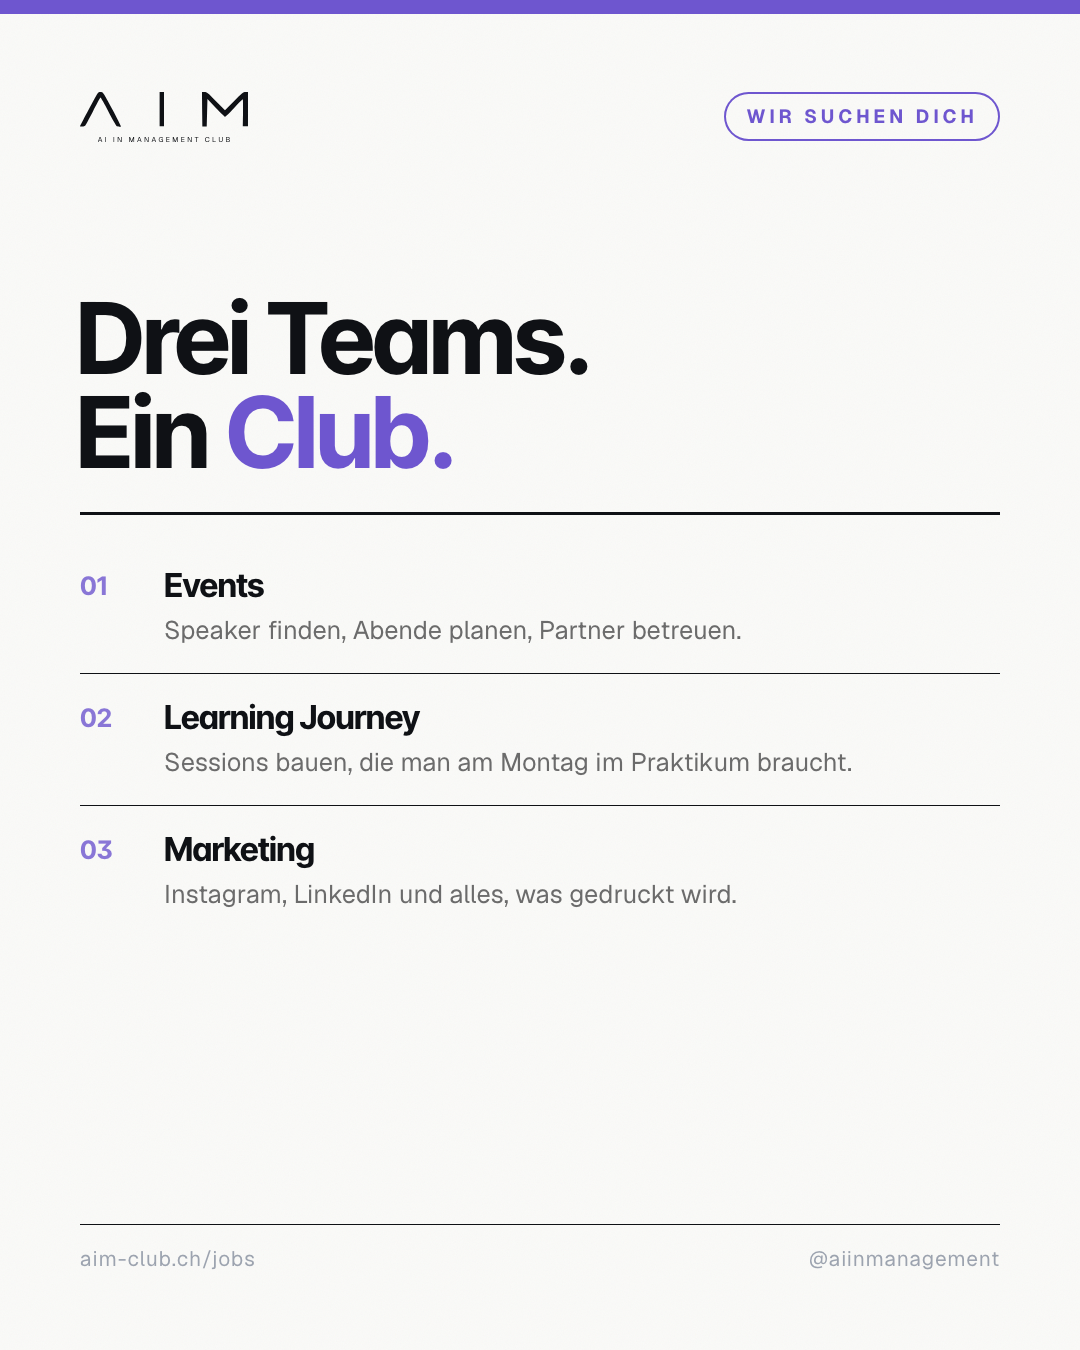
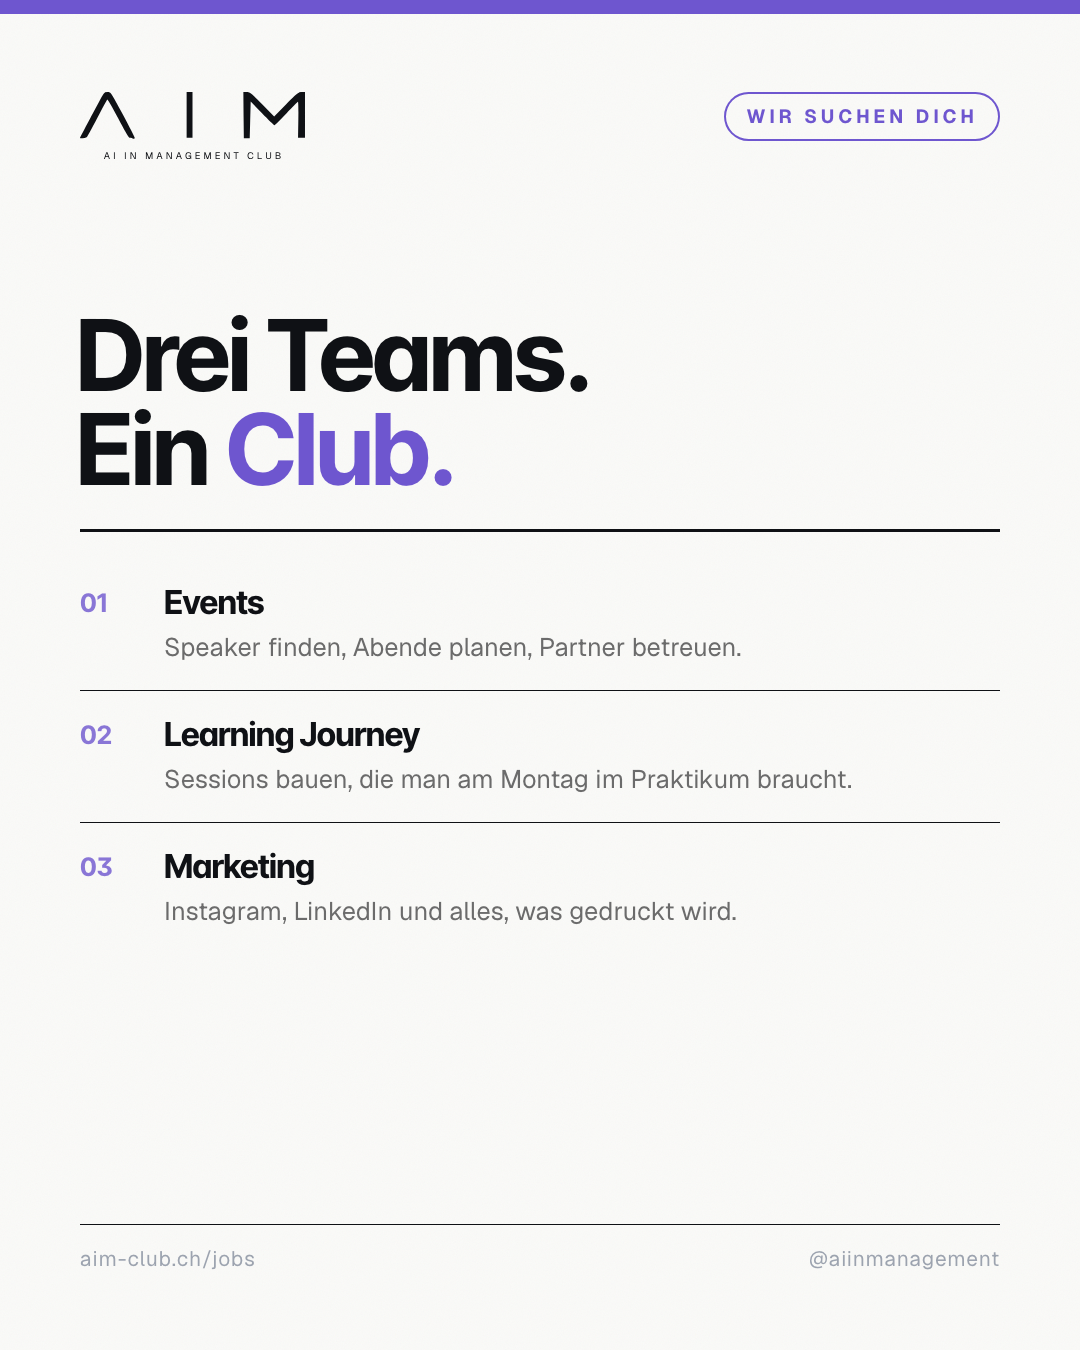
Apply dry-run findings: stricter brand check, scalable poster, clearer brief
- Leftover template sample text is now an error, also without data-sample
- Text-overlap and wordmark-legibility checks; print labels never below 7.5pt
- Poster scales natively to A4/A5 instead of shrinking the PDF
- Folder dates use local time; designs remember their template
- Brief and skills: language, event photos, slide counts, no invented content
- Climb mountain illustration from the club deck as a static motif

diff --git a/brand/components.css b/brand/components.css
@@ -28,6 +28,7 @@ em, i { font-style: normal; } /* no italics anywhere */
   height: var(--h);
   font-family: var(--font-body);
   font-size: var(--base, 28px);
+  --min-text: 0px;  /* print templates set 7.5pt: small labels never get smaller than that */
   line-height: var(--leading-body);
   background: var(--bg);
   color: var(--fg);
@@ -152,7 +153,7 @@ em, i { font-style: normal; } /* no italics anywhere */
 
 .eyebrow {
   font-family: var(--font-body);
-  font-size: 0.64em;
+  font-size: max(0.64em, var(--min-text));
   font-weight: 500;
   letter-spacing: var(--tracking-eyebrow);
   text-transform: uppercase;
@@ -180,8 +181,8 @@ em, i { font-style: normal; } /* no italics anywhere */
 .lede { font-size: 1.25em; line-height: 1.28; letter-spacing: -0.015em; color: var(--fg-soft); max-width: 30em; }
 .text { font-size: 1em; line-height: var(--leading-body); color: var(--fg-soft); max-width: 34em; }
 .text b, .lede b { color: var(--fg); font-weight: 700; }
-.small { font-size: 0.8em; line-height: 1.4; color: var(--fg-faint); }
-.uppercase-wide { text-transform: uppercase; letter-spacing: var(--tracking-eyebrow); font-size: 0.64em; font-weight: 500; }
+.small { font-size: max(0.8em, var(--min-text)); line-height: 1.4; color: var(--fg-faint); }
+.uppercase-wide { text-transform: uppercase; letter-spacing: var(--tracking-eyebrow); font-size: max(0.64em, var(--min-text)); font-weight: 500; }
 
 /* Keep together on one line: URLs, "CHF 40", dates. Or use &nbsp; between the words. */
 .nowrap { white-space: nowrap; }
@@ -202,12 +203,12 @@ em, i { font-style: normal; } /* no italics anywhere */
 .theme-light .facts > div { border-top-width: 2px; }
 .facts dt {
   flex: none; width: 6em;
-  font-size: 0.64em; font-weight: 500; letter-spacing: 0.2em; text-transform: uppercase;
+  font-size: max(0.64em, var(--min-text)); font-weight: 500; letter-spacing: 0.2em; text-transform: uppercase;
   color: var(--accent);
 }
 .theme-light .facts dt { color: var(--fg-soft); }
 .facts dd { font-family: var(--font-display); font-size: 1.32em; font-weight: 700; letter-spacing: -0.01em; line-height: 1.15; }
-.facts dd small { display: block; margin-top: 0.25em; font-family: var(--font-body); font-size: 0.65em; font-weight: 400; letter-spacing: 0; color: var(--fg-faint); }
+.facts dd small { display: block; margin-top: 0.25em; font-family: var(--font-body); font-size: max(0.65em, var(--min-text)); font-weight: 400; letter-spacing: 0; color: var(--fg-faint); }
 
 /* Numbered rows: <ol class="numbered"><li><span class="n">01</span><div>...</div></li></ol> */
 .numbered { list-style: none; }
@@ -217,7 +218,7 @@ em, i { font-style: normal; } /* no italics anywhere */
 }
 .numbered .n { font-family: var(--font-display); font-weight: 700; font-size: 0.85em; line-height: 1.6; color: var(--accent); opacity: 0.8; }
 .numbered h3 { font-family: var(--font-display); font-weight: 700; font-size: 1.1em; letter-spacing: -0.02em; line-height: 1.2; }
-.numbered p { margin-top: 0.25em; font-size: 0.85em; color: var(--fg-soft); }
+.numbered p { margin-top: 0.25em; font-size: max(0.85em, var(--min-text)); color: var(--fg-soft); }
 
 /* Big date: <div class="date"><div class="date__num">23</div><div class="date__mo">September<span>16.00 bis 17.30</span></div></div> */
 .date { display: flex; align-items: flex-start; gap: 0.6em; }
@@ -241,12 +242,12 @@ em, i { font-style: normal; } /* no italics anywhere */
   background: var(--pill-fg); color: var(--pill-bg); font-size: 0.85em;
 }
 .cta { display: flex; align-items: center; gap: 0.8em; }
-.url { font-size: 0.9em; color: var(--fg-faint); letter-spacing: -0.01em; }
+.url { font-size: max(0.9em, var(--min-text)); color: var(--fg-faint); letter-spacing: -0.01em; }
 
 /* Small rounded tag, e.g. "Event", "Neu", "Workshop" */
 .badge {
   display: inline-flex; align-self: flex-start; align-items: center;
-  font-size: 0.64em; font-weight: 700; letter-spacing: 0.2em; text-transform: uppercase;
+  font-size: max(0.64em, var(--min-text)); font-weight: 700; letter-spacing: 0.2em; text-transform: uppercase;
   color: var(--accent); padding: 0.55em 1.15em; border-radius: var(--radius-pill);
   box-shadow: inset 0 0 0 2px currentColor;
 }
@@ -267,7 +268,7 @@ em, i { font-style: normal; } /* no italics anywhere */
 /* Bottom line with web and socials */
 .footer-bar {
   display: flex; justify-content: space-between; align-items: center;
-  font-size: 0.7em; letter-spacing: 0.04em; color: var(--fg-faint);
+  font-size: max(0.7em, var(--min-text)); letter-spacing: 0.04em; color: var(--fg-faint);
   border-top: 1px solid var(--line); padding-top: 0.9em;
 }
 

diff --git a/templates/poster/design.html b/templates/poster/design.html
@@ -3,29 +3,32 @@
 <head>
 <meta charset="utf-8">
 <meta name="aim:print" content="A3">
-<meta name="aim:about" content="Print poster A3 with 3 mm bleed, light, QR code. Also prints as A4 or A5 (npm run render -- ... --paper A4).">
+<meta name="aim:about" content="Print poster A3 with 3 mm bleed, light, photo band, QR code. Same layout works for A4 and A5 (see guide/formats.md).">
 <title>AIM poster</title>
 <link rel="stylesheet" href="../../brand/tokens.css">
 <link rel="stylesheet" href="../../brand/components.css">
 <style>
-  /* 303 x 426 mm = A3 plus 3 mm bleed on each side. Keep text 15 mm inside the trim (18 mm from the edge). */
+  /* Paper size: change these four lines together, values per size in guide/formats.md.
+     A3 = 303 x 426 mm including 3 mm bleed on each side. */
   @page { size: 303mm 426mm; }
-  .canvas { --w: 303mm; --h: 426mm; --base: 6.2mm; --pad-x: 25mm; --pad-top: 25mm; --pad-bottom: 23mm; }
-  .band { position: absolute; left: 0; right: 0; top: 0; height: 128mm; overflow: hidden; z-index: 0; background: var(--ink); }
+  .canvas { --w: 303mm; --h: 426mm; --base: 6.2mm; --pad-x: 25mm; --pad-top: 25mm; --pad-bottom: 23mm; --min-text: 7.5pt; }
+
+  /* Everything below is in em (relative to --base) or relative to the page, so it scales with the paper. */
+  .band { position: absolute; left: 0; right: 0; top: 0; height: 30%; overflow: hidden; z-index: 0; background: var(--ink); }
   .band .photo img { object-position: 50% 30%; }
-  .top { position: relative; height: 103mm; display: flex; flex-direction: column; justify-content: space-between; }
-  .top .eyebrow { color: var(--aim-glow); font-size: 0.7em; }
-  .headline { margin-top: 1.5em; }
+  .top { flex: none; height: calc(var(--h) * 0.30 - var(--pad-top)); display: flex; flex-direction: column; justify-content: space-between; padding-bottom: 2.2em; }
+  .top .eyebrow { color: var(--aim-glow); font-size: max(0.75em, var(--min-text)); }
+  .headline { margin-top: 0.38em; } /* em of the headline itself: keep small */
   .lede { margin-top: 0.7em; font-size: 1.75em; color: var(--ink); font-weight: 500; line-height: 1.12; max-width: 17em; }
   .text { margin-top: 0.9em; font-size: 1em; color: var(--ink); }
-  .facts { margin-top: auto; display: grid; grid-template-columns: 1.25fr 0.85fr 1fr; column-gap: 8mm; }
-  .facts > div { display: block; border-top-width: 0.7mm; padding-top: 3.5mm; }
+  .facts { margin-top: auto; padding-top: 2.2em; display: grid; grid-template-columns: 1.25fr 0.85fr 1fr; column-gap: 1.3em; }
+  .facts > div { display: block; border-top-width: 0.11em; padding-top: 0.55em; }
   .facts dt { width: auto; }
   .facts dd { margin-top: 0.3em; font-size: 1.2em; }
-  .signup { margin-top: 2.4em; display: flex; justify-content: space-between; align-items: flex-end; gap: 10mm; }
+  .signup { margin-top: 2.4em; display: flex; justify-content: space-between; align-items: flex-end; gap: 1.6em; }
   .signup .cta-big { font-family: var(--font-display); font-weight: 700; font-size: 2.75em; letter-spacing: -0.025em; line-height: 1; }
   .signup p { margin-top: 0.8em; font-size: 0.95em; line-height: 1.35; color: var(--muted); }
-  .qr { --qr-w: 62mm; padding: 0; }
+  .qr { --qr-w: 10em; padding: 0; }
 </style>
 </head>
 <body>
@@ -35,7 +38,7 @@
 
   <div class="content">
     <div class="top">
-      <img class="logo" src="../../brand/logo/aim-wordmark-light.svg" alt="AIM, AI in Management Club" style="--logo-w: 10.5em">
+      <img class="logo" src="../../brand/logo/aim-wordmark-light.svg" alt="AIM, AI in Management Club" style="--logo-w: max(10.5em, 36mm)">
       <div class="eyebrow" data-sample>Event · Herbstsemester 26</div>
     </div>
 

diff --git a/templates/slides/design.html b/templates/slides/design.html
@@ -38,7 +38,7 @@
   <div class="photo"><img src="../../brand/photos/dark-peak.jpg" alt=""></div>
   <div class="grain"></div>
   <div class="content">
-    <div class="header"><img class="logo" src="../../brand/logo/aim-wordmark-light.svg" alt="AIM, AI in Management Club" style="--logo-w: 6.5em"></div>
+    <div class="header"><img class="logo" src="../../brand/logo/aim-wordmark-light.svg" alt="AIM, AI in Management Club" style="--logo-w: 7.5em"></div>
     <div class="head">
       <div class="eyebrow" data-sample>Learning Journey · Session 1</div>
       <h1 class="headline headline--hero" style="--headline-size: 4.6em" data-sample>KI im <span class="hl">Pitch-Deck.</span></h1>
@@ -81,7 +81,7 @@
 <div class="canvas theme-violet close">
   <div class="grain"></div>
   <div class="content">
-    <div class="header"><img class="logo" src="../../brand/logo/aim-wordmark-light.svg" alt="AIM, AI in Management Club" style="--logo-w: 6.5em"></div>
+    <div class="header"><img class="logo" src="../../brand/logo/aim-wordmark-light.svg" alt="AIM, AI in Management Club" style="--logo-w: 7.5em"></div>
     <h2 class="headline headline--hero" style="--headline-size: 3.8em">Danke.</h2>
     <div class="qr-block">
       <img class="qr" src="../../brand/qr/qr-join.svg" alt="QR-Code aim-club.ch/join">

diff --git a/templates/document-a4/design.html b/templates/document-a4/design.html
@@ -10,7 +10,7 @@
 <style>
   /* 216 x 303 mm = A4 plus 3 mm bleed. For office printing the bleed is simply trimmed off. */
   @page { size: 216mm 303mm; }
-  .canvas { --w: 216mm; --h: 303mm; --base: 3.9mm; --pad-x: 21mm; --pad-top: 19mm; --pad-bottom: 15mm; }
+  .canvas { --w: 216mm; --h: 303mm; --base: 3.9mm; --pad-x: 21mm; --pad-top: 19mm; --pad-bottom: 15mm; --min-text: 7.5pt; }
   .header { display: flex; justify-content: space-between; align-items: center; padding-bottom: 5mm; border-bottom: 2px solid var(--ink); }
   .header .eyebrow { color: var(--muted); }
   h1.headline { margin-top: 1.3em; }
@@ -33,7 +33,7 @@
 <div class="canvas theme-light">
   <div class="content">
     <div class="header">
-      <img class="logo" src="../../brand/logo/aim-wordmark-dark.svg" alt="AIM, AI in Management Club" style="--logo-w: 9em">
+      <img class="logo" src="../../brand/logo/aim-wordmark-dark.svg" alt="AIM, AI in Management Club" style="--logo-w: 9.5em">
       <span class="eyebrow" data-sample>Factsheet · 2026</span>
     </div>
 

diff --git a/templates/certificate/design.html b/templates/certificate/design.html
@@ -9,7 +9,7 @@
 <link rel="stylesheet" href="../../brand/components.css">
 <style>
   @page { size: 303mm 216mm; }
-  .canvas { --w: 303mm; --h: 216mm; --base: 4.6mm; --pad-x: 28mm; --pad-top: 24mm; --pad-bottom: 22mm; }
+  .canvas { --w: 303mm; --h: 216mm; --base: 4.6mm; --pad-x: 28mm; --pad-top: 24mm; --pad-bottom: 22mm; --min-text: 7.5pt; }
   .frame { position: absolute; inset: 11mm; border: 2px solid var(--line-on-dark); z-index: 2; pointer-events: none; }
   .top { display: flex; justify-content: space-between; align-items: flex-start; }
   .main { margin: auto 0; }

diff --git a/templates/instagram-carousel/design.html b/templates/instagram-carousel/design.html
@@ -33,7 +33,7 @@
   <div class="grain"></div>
   <div class="content">
     <div class="top">
-      <img class="logo" src="../../brand/logo/aim-wordmark-light.svg" alt="AIM, AI in Management Club" style="--logo-w: 5.6em">
+      <img class="logo" src="../../brand/logo/aim-wordmark-light.svg" alt="AIM, AI in Management Club" style="--logo-w: 7.5em">
       <span class="count">1 / 3</span>
     </div>
     <div class="head">

diff --git a/templates/instagram-story/design.html b/templates/instagram-story/design.html
@@ -26,7 +26,7 @@
   <div class="grain"></div>
 
   <div class="content">
-    <img class="logo" src="../../brand/logo/aim-wordmark-light.svg" alt="AIM, AI in Management Club" style="--logo-w: 6.6em">
+    <img class="logo" src="../../brand/logo/aim-wordmark-light.svg" alt="AIM, AI in Management Club" style="--logo-w: 8em">
 
     <div class="head">
       <div class="eyebrow" data-sample>Herbstsemester 26</div>

diff --git a/templates/instagram-post-light/design.html b/templates/instagram-post-light/design.html
@@ -25,7 +25,7 @@
 
   <div class="content">
     <div class="top">
-      <img class="logo" src="../../brand/logo/aim-wordmark-dark.svg" alt="AIM, AI in Management Club" style="--logo-w: 5.6em">
+      <img class="logo" src="../../brand/logo/aim-wordmark-dark.svg" alt="AIM, AI in Management Club" style="--logo-w: 7.5em">
       <div class="badge" data-sample>Wir suchen dich</div>
     </div>
 

diff --git a/templates/instagram-post/design.html b/templates/instagram-post/design.html
@@ -25,7 +25,7 @@
 
   <div class="content">
     <div class="top">
-      <img class="logo" src="../../brand/logo/aim-wordmark-light.svg" alt="AIM, AI in Management Club" style="--logo-w: 6em">
+      <img class="logo" src="../../brand/logo/aim-wordmark-light.svg" alt="AIM, AI in Management Club" style="--logo-w: 7.5em">
       <div class="badge" data-sample>Workshop</div>
     </div>
 

diff --git a/guide/formats.md b/guide/formats.md
@@ -7,9 +7,10 @@ Pick the template that matches where the design will be used. `npm run new` list
 | Instagram story | `instagram-story` | 1080 x 1920 px | 30px | PNG |
 | Instagram feed post | `instagram-post` (dark, photo) / `instagram-post-light` | 1080 x 1350 px (4:5) | 30px | PNG |
 | Instagram carousel | `instagram-carousel` | 1080 x 1350 px per slide | 30px | one PNG per slide |
-| LinkedIn post, website header, link preview, event platforms | `banner-landscape` | 1200 x 630 px | 22px | PNG |
+| LinkedIn feed post (best reach) | `instagram-post` / `instagram-post-light` / `instagram-carousel` | 1080 x 1350 px (4:5) | 30px | PNG (carousel: PDF with `--pdf`, LinkedIn shows PDFs as swipeable documents) |
+| Website header, link preview, event platforms, landscape LinkedIn image | `banner-landscape` | 1200 x 630 px | 22px | PNG |
 | LinkedIn company cover | `linkedin-cover` | 1128 x 191 px | 18px | PNG |
-| Poster, flyer | `poster` | A3 + 3 mm bleed (also prints as A4/A5) | 6.2mm | PDF + PNG preview |
+| Poster, flyer | `poster` | A3 + 3 mm bleed (A4/A5: see below) | 6.2mm | PDF + PNG preview |
 | Presentation | `slides` | 1920 x 1080 px | 30px | PNGs + PDF (`--pdf`) |
 | Document, factsheet, handout | `document-a4` | A4 + 3 mm bleed, multiple pages | 3.9mm | PDF + PNG preview |
 | Certificate | `certificate` | A4 landscape + 3 mm bleed | 4.6mm | PDF + PNG preview |
@@ -26,6 +27,20 @@ Other sizes on request: copy the closest template and change `<meta name="aim:si
 | Website OG image | 1200 x 630 px |
 | Roll-up banner | 850 x 2000 mm (print shop decides bleed, ask them) |
 
+## Poster sizes
+
+The poster template scales to any paper size. A flyer is its own design file, never a shrunk PDF
+(shrinking breaks the bleed and makes small text unreadable). Copy the design to a new folder and change
+these four lines at the top of its `<style>` and `<head>`:
+
+| Paper | `<meta name="aim:print">` | `@page { size: }` | `.canvas` values |
+|---|---|---|---|
+| A3 | `A3` | `303mm 426mm` | `--w: 303mm; --h: 426mm; --base: 6.2mm; --pad-x: 25mm; --pad-top: 25mm; --pad-bottom: 23mm;` |
+| A4 | `A4` | `216mm 303mm` | `--w: 216mm; --h: 303mm; --base: 4.4mm; --pad-x: 18mm; --pad-top: 18mm; --pad-bottom: 16mm;` |
+| A5 (flyer) | `A5` | `154mm 216mm` | `--w: 154mm; --h: 216mm; --base: 3.1mm; --pad-x: 12.5mm; --pad-top: 12.5mm; --pad-bottom: 12mm;` |
+
+Keep `--min-text: 7.5pt;` in every print design. Then render and fix any warning (long headlines may need a smaller `--headline-size`).
+
 ## Safe zones
 
 - **Instagram story:** Instagram's own UI covers the top ~200 px and the bottom ~250 px. No text or logo there.
@@ -39,4 +54,4 @@ Other sizes on request: copy the closest template and change `<meta name="aim:si
 - PDFs are RGB. Most print shops (and the HSG print shop) accept RGB PDFs. If a shop asks for CMYK or PDF/X,
   send them the PDF and ask them to convert, or tell the user that this needs a print-shop conversion.
 - Print at 100% / "actual size", not "fit to page".
-- A4 and A5 versions of the poster: `npm run render -- <file> --paper A4`.
+- A4 and A5 versions: see "Poster sizes" above.

diff --git a/.agents/skills/design/SKILL.md b/.agents/skills/design/SKILL.md
@@ -13,6 +13,9 @@ Find out, from the message or by asking in ONE short message:
 - **Where** it will be used (story, feed post, LinkedIn, print poster, slides, PDF). This picks the template.
 - **Facts**: what, when, where, who, link/registration. Only what the user gives you or what is in `guide/club-facts.md`.
 - **The one message** people should remember.
+- **Language** of the design, if it is not obvious. Default: the language the user writes in.
+  Templates are German; for English, translate every label too (Datum → Date, see `guide/voice.md`) and set `<html lang="en">`.
+- **Photos**: for recaps or anything about a past event, ask whether they have event photos.
 
 If the user says "just make something", pick the most likely format (Instagram story for events,
 feed post for announcements) and say which one you chose.
@@ -29,13 +32,22 @@ print and text-heavy designs). Several variants? Create one folder each (`kickof
 
 ## 3. Fill and adapt
 
+- Read `design.html` before editing it (some tools refuse to overwrite a file they have not read).
 - Replace all sample text, remove every `data-sample` attribute, delete blocks you have no content for.
+  Sample lines that sound like facts ("Eintritt frei", "Offen für alle", a room, a speaker) stay only if
+  the user confirmed them. The brand check flags template sample text that is still in the design.
 - Copy follows `guide/voice.md`: short headlines, Swiss spelling, "du", no hype, no invented facts.
+  This includes content: do not promise learning outcomes, agenda points or takeaways the user did not give you.
+  A lede can restate the topic in other words; it cannot add claims. If you do not know what an event is
+  about, ask, or leave the lede out.
 - Highlight at most one or two words with `<span class="hl">`.
 - Layout changes: only in the design's own `<style>` block and only spacing, sizes (`--headline-size`,
   `--logo-w`, ...), positions and grids. Colours, fonts and effects come from `brand/`.
 - Building blocks: `guide/components.md`. Need a photo the user sent? Copy it into the design folder
   and use `<div class="photo"><img src="their-photo.jpg" alt=""></div>`.
+- Multi-page designs (carousel, slides): duplicate or delete `.canvas` blocks to get the requested number
+  of pages and update every page counter ("2 / 5"). Keep logo, counter and headline positions identical across
+  pages, and keep background motifs away from the counter and logo.
 - Long German words break layouts: check that headlines fit; shorten the copy before shrinking the type.
 
 ## 4. Render, check, look

diff --git a/guide/brand-rules.md b/guide/brand-rules.md
@@ -35,6 +35,10 @@ documents, editorial posts, recruiting, anything text-heavy.
 Never mix recipes randomly inside one design. A poster may have a dark photo band on top of a light page
 (see `templates/poster`), but each zone follows one recipe completely.
 
+Multi-page designs (carousels, slides, documents): each page follows one recipe. Pages may switch between
+dark and light on purpose (e.g. dark cover, light content pages); violet only for the last page. All dark
+is always fine. Keep the logo, page counter and headline in the same position on every page.
+
 ## Typography
 
 - **Inter Tight Bold (700)** for headlines, big numbers and buttons: `var(--font-display)`.
@@ -71,12 +75,17 @@ Files in `brand/logo/`:
 
 - **Mountains** are our landscape: `brand/photos/mountains.jpg`, `dark-peak.jpg`, `matterhorn.jpg`.
   Always under the ink wash (`.photo`), desaturated, calm. They stand for the climb: learning step by step.
+- **Climb illustration** (`brand/motifs/climb-mountain.svg`, `climb-mountain-route.svg` with the violet route,
+  base camp and summit flag): the Learning Journey drawn as a climb, from the club deck. Light designs only,
+  full width at the bottom of a page or slide.
 - **Network dome** (`brand/motifs/network-dome.svg`) is the central brand motif for AI and connection.
   Behind headlines, partly cropped, never in front of text.
 - **Real people**: board portraits in `brand/photos/team/` and event photos the user provides.
 - **Icons**: `brand/icons/` (35 line icons from the guideline, see `icons.json` for German and English names).
   Use them at the same size in a row, in the accent colour.
 - No AI-generated images, no stock photos of robots, glowing brains, handshakes or circuit-board heads.
+  The `bot` icon is a small pictogram in an icon row, not a substitute when someone asks for "robot images".
+- For recaps and event posts, real photos from the event beat everything else. Ask for them.
 - Partner logos only when the user confirms the partnership is official, and only in a neutral row
   (all in paper on dark or ink on light), never bigger than our logo.
 
